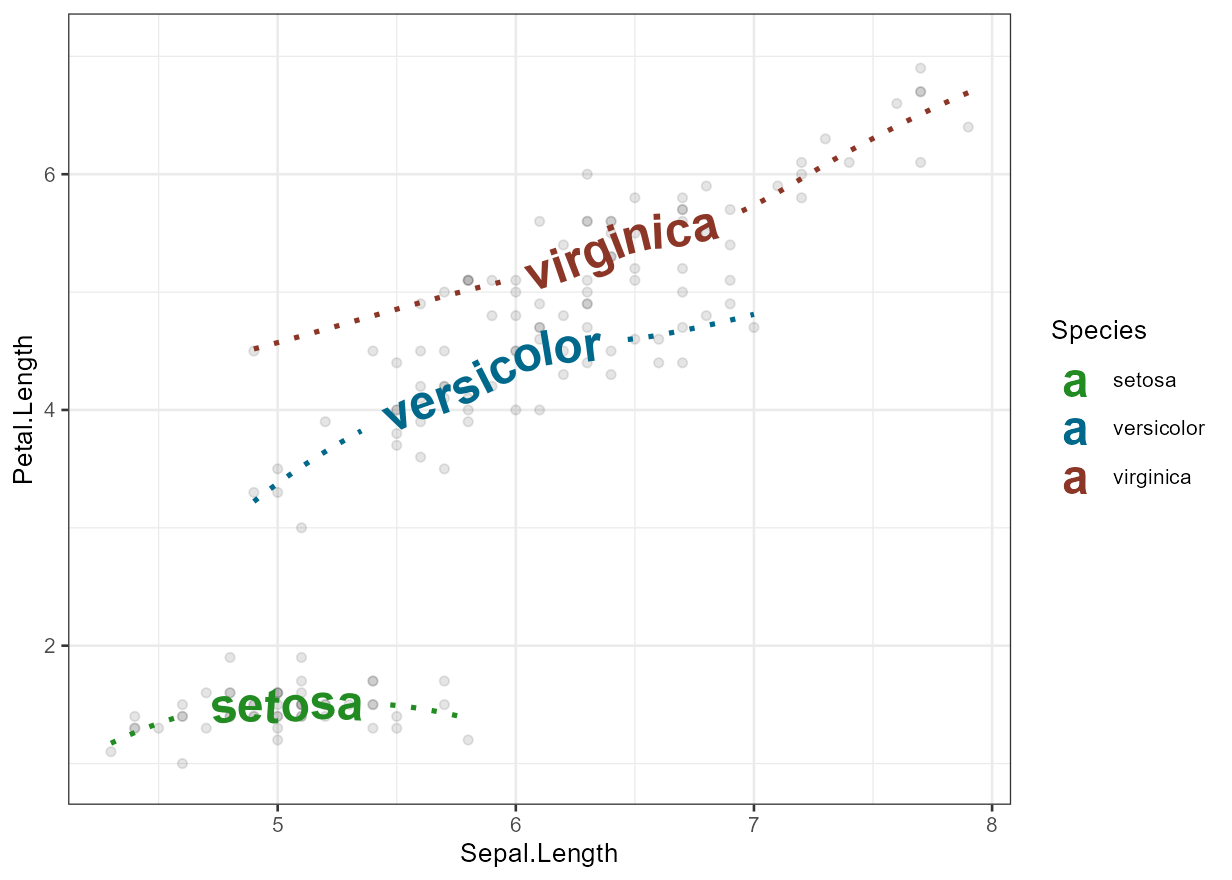
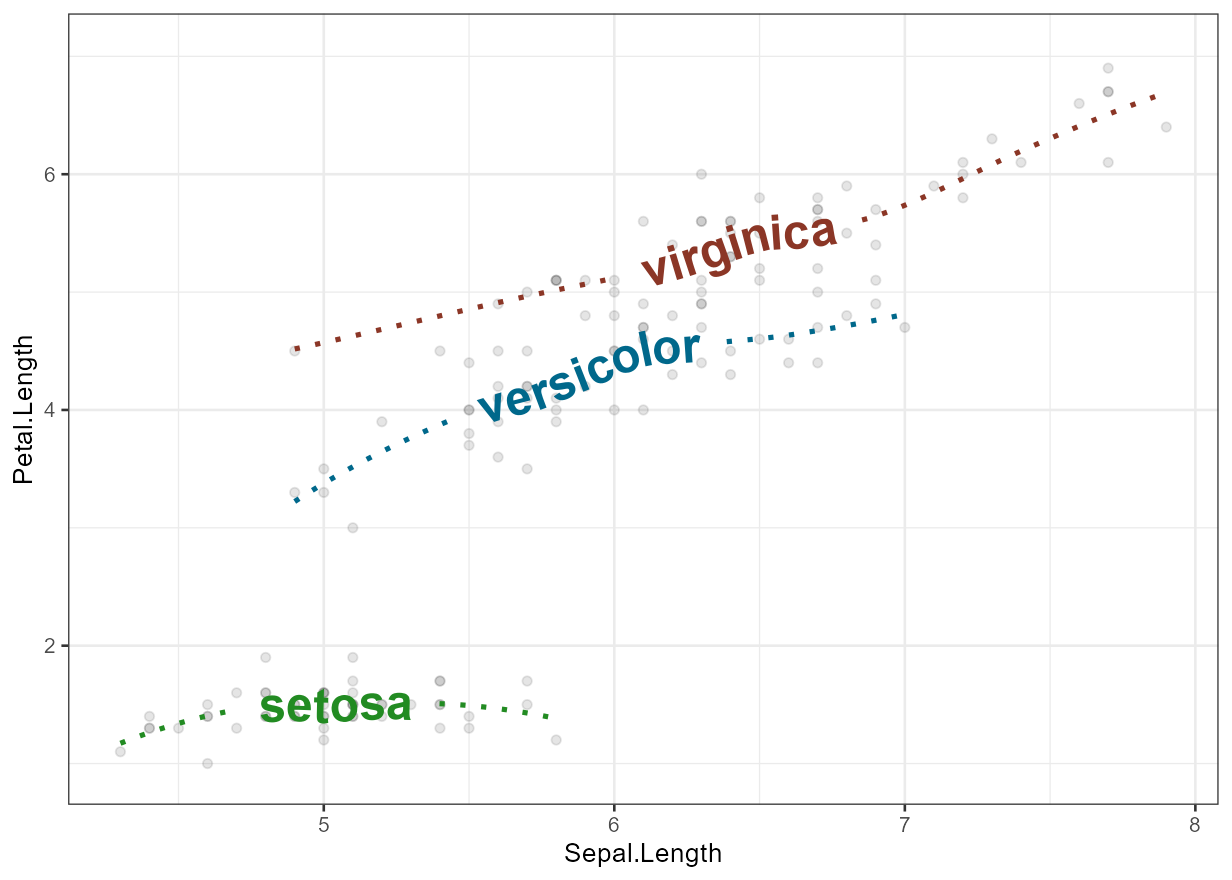
Added geom_textsmooth

diff --git a/README.md b/README.md
@@ -20,7 +20,8 @@ textual annotations are short, straight and in line with the axes of the
 plot. However, there are some occasions when it is useful to have text
 follow a curved path. This may be to create or recreate a specific
 visual effect, or it may be to label a circular / polar plot in a more
-“natural” way.
+“natural” way. Direct labels that can adhere closesly to the associated
+line can also provide a neat alternative to legends.
 
 ## Installation
 
@@ -71,6 +72,7 @@ in this package, which include:
 
 -   `geom_textline`
 -   `geom_textdensity`
+-   `geom_textsmooth`
 -   `geom_textcontour`
 -   `geom_textdensity2d`
 
@@ -108,43 +110,35 @@ ggplot(iris, aes(x = Sepal.Length, colour = Species, label = Species)) +
 
 <img src="man/figures/README-density_demo-1.png" width="100%" style="display: block; margin: auto;" />
 
-We can also use `stat_smooth` to get labelled trend lines through
+### `geom_textsmooth`
+
+We can use `geom_textsmooth` to get labelled trend lines through
 scatterplots:
 
 ``` r
 ggplot(iris, aes(x = Sepal.Length, y = Petal.Length)) +
   geom_point(alpha = 0.1) +
-  geom_textpath(aes(label = Species, colour = Species),
-                stat = "smooth", method = "loess", formula = y ~ x,
+  geom_textsmooth(aes(label = Species, colour = Species),
+                method = "loess", formula = y ~ x,
                 size = 7, linetype = 3, fontface = 2, linewidth = 1) +
   scale_colour_manual(values = c("forestgreen", "deepskyblue4", "tomato4")) +
-  theme_bw()
+  theme_bw() + 
+  theme(legend.position = "none")
 ```
 
 <img src="man/figures/README-smooth-1.png" width="100%" style="display: block; margin: auto;" />
 
-And of course, arbitrary functions can be labelled with paths created in
-`stat_function`:
+Another use might be to label lines that are too “noisy”
 
 ``` r
-ggplot() + 
-  xlim(c(0, 1)) + 
-  stat_function(geom = "textpath",
-                fun = dgamma, color = "red4",
-                label = "gamma distribution with shape = 1",
-                size = 5, vjust = -0.2, hjust = 0.1, args = list(shape = 1)) +
-  stat_function(geom = "textpath",
-                fun = dgamma, color = "blue4",
-                label = "gamma distribution with shape = 2",
-                size = 5, vjust = -0.2, hjust = 0.1, args = list(shape = 2)) +
-  stat_function(geom = "textpath",
-                fun = dgamma, color = "green4",
-                label = "gamma distribution with shape = 3",
-                size = 5, vjust = -0.2, hjust = 0.1, args = list(shape = 3)) +
-  theme_bw()
+ggplot(economics, aes(date, unemploy)) +
+  geom_line(colour = "grey") +
+  geom_textsmooth(aes(label = "Decline"), method = loess, formula = y ~ x,
+                  hjust = 0.48, size = 5, method.args = list(span = 0.2),
+                  include_line = FALSE, vjust = -0.5)
 ```
 
-<img src="man/figures/README-stat_function-1.png" width="100%" style="display: block; margin: auto;" />
+<img src="man/figures/README-smooth2-1.png" width="100%" style="display: block; margin: auto;" />
 
 ### Labelled contour lines
 
@@ -179,6 +173,32 @@ ggplot(df, aes(x, y)) +
 ```
 
 <img src="man/figures/README-density2d-1.png" width="100%" style="display: block; margin: auto;" />
+
+### Arbitrary `stat` transformations
+
+Other “stat” transformations can be used directly on `geom_textpath`.
+For example, functions can be labelled with paths created in
+`stat_function`:
+
+``` r
+ggplot() + 
+  xlim(c(0, 1)) + 
+  stat_function(geom = "textpath",
+                fun = dgamma, color = "red4",
+                label = "gamma distribution with shape = 1",
+                size = 5, vjust = -0.2, hjust = 0.1, args = list(shape = 1)) +
+  stat_function(geom = "textpath",
+                fun = dgamma, color = "blue4",
+                label = "gamma distribution with shape = 2",
+                size = 5, vjust = -0.2, hjust = 0.1, args = list(shape = 2)) +
+  stat_function(geom = "textpath",
+                fun = dgamma, color = "green4",
+                label = "gamma distribution with shape = 3",
+                size = 5, vjust = -0.2, hjust = 0.1, args = list(shape = 3)) +
+  theme_bw()
+```
+
+<img src="man/figures/README-stat_function-1.png" width="100%" style="display: block; margin: auto;" />
 
 ### Controlling text position
 
